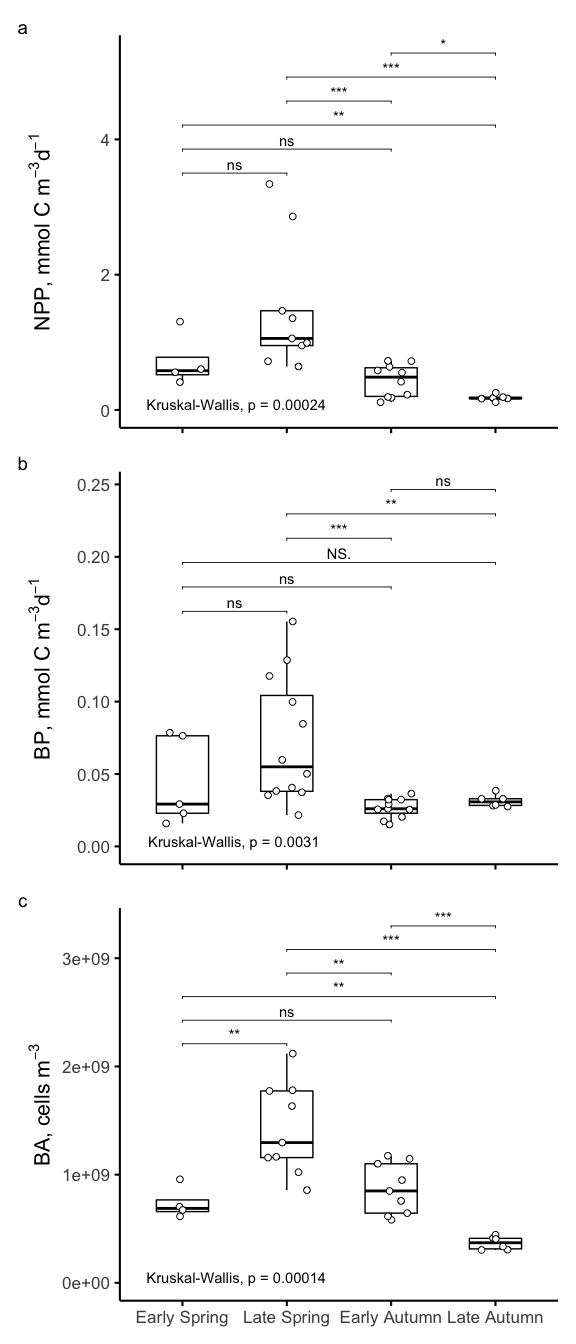
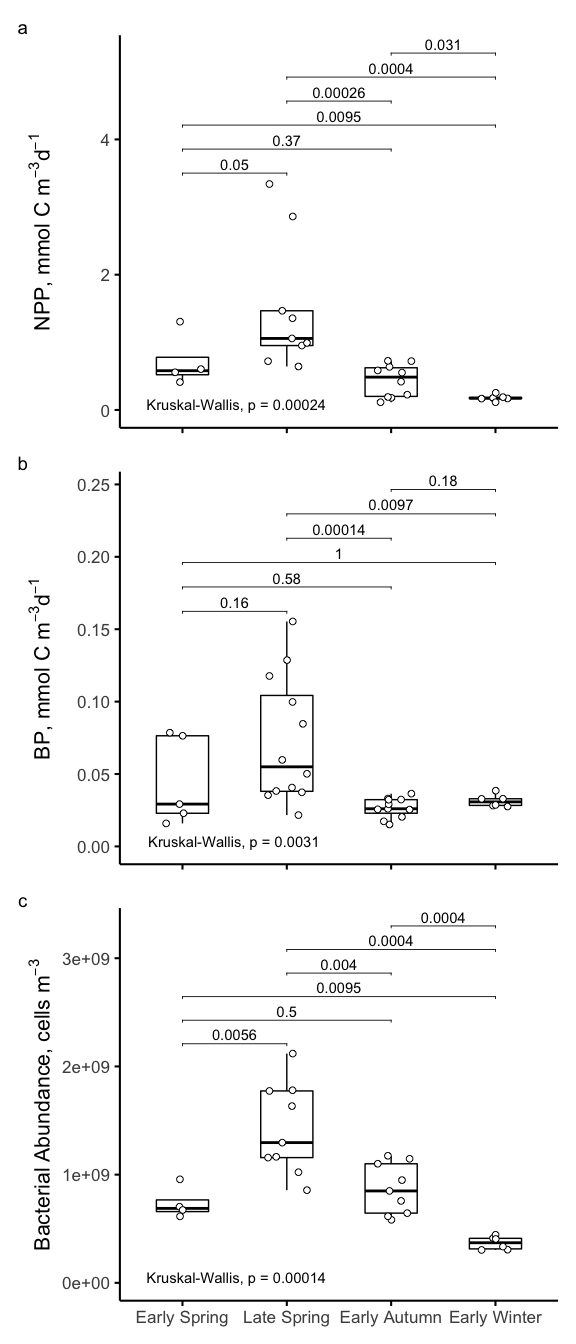
change nomenclature for figs and fix redistribution values to reflect methods of baetge et al 2020

diff --git a/rmd/BCD_DOC-Bioavailability.md b/rmd/BCD_DOC-Bioavailability.md
@@ -25,7 +25,8 @@ library(blandr)
 ``` r
 export <- readRDS("~/GITHUB/naames_bioav_ms/Input/master/processed_export_for_bioavMS.6.7.20.rds") %>% 
   select(Season, Cruise, degree_bin, Station, int_delta_DOC_100, NCP_mol_100, doc_ncp_100) %>% 
-  distinct()
+  distinct() %>% 
+  mutate(Season = ifelse(Season == "Late Autumn", "Early Winter", Season))
 
 export_bioav <- readRDS("~/GITHUB/naames_bioav_ms/Output/processed_DOC_bioavailability.rds") 
 
@@ -40,7 +41,7 @@ doc_og <- read_rds("~/GITHUB/naames_bioav_ms/Input/master/DOC_Input") %>%
   summarise_at(vars(doc), list(mean = mean, sd = sd)) %>%
   ungroup() %>% 
   mutate(increase = 56.2 - 53.4,
-         per_increase = increase / 53.4 * 100)
+         per_increase = increase / 53.4 * 100) 
 ```
 
     ## Joining, by = c("Season", "Cruise", "Station", "Bottle")
@@ -67,7 +68,8 @@ bge <- read_rds("~/GITHUB/naames_bioav_ms/Output/processed_bge.rds") %>%
   select(Season:stationary.harvest, remin.end, Hours:sd_station_cells, norm_cells, sd_norm_cells, everything()) %>% 
   left_join(., export_bioav %>% select(Season, Cruise, Station, degree_bin) %>% distinct()) %>% 
   mutate(degree_bin = ifelse(is.na(degree_bin), 39, degree_bin)) %>% 
-  select(Season:Station, degree_bin, everything())
+  select(Season:Station, degree_bin, everything()) %>% 
+  mutate(Season = ifelse(Season == "Late Autumn", "Early Winter", Season))
 ```
 
     ## Joining, by = c("Season", "Cruise", "Station")
@@ -78,7 +80,9 @@ bge_summary <- read_rds("~/GITHUB/naames_bioav_ms/Output/bge_summary.rds") %>%
   left_join(., read_rds("~/GITHUB/naames_bioav_ms/Output/bge_station_means.rds") %>% select(Season, Cruise, Station, bge_mean) %>% rename(station_bge = bge_mean)) %>% 
   left_join(., export_bioav %>% select(Season, Cruise, Station, degree_bin) %>% distinct()) %>% 
   mutate(degree_bin = ifelse(is.na(degree_bin), 39, degree_bin)) %>% 
-  select(Season:Station, degree_bin, everything())
+  select(Season:Station, degree_bin, everything()) %>% 
+  mutate(Season = ifelse(Season == "Late Autumn", "Early Winter", Season)) %>% 
+  mutate(ccf = (del.poc * (12 * 10^9)/del.cells))
 ```
 
     ## Joining, by = c("Season", "Cruise")
@@ -87,11 +91,13 @@ bge_summary <- read_rds("~/GITHUB/naames_bioav_ms/Output/bge_summary.rds") %>%
     ## Joining, by = c("Season", "Cruise", "Station")
 
 ``` r
-bcd <- read_rds("~/GITHUB/naames_bioav_ms/Output/processed_BCD.rds") 
+bcd <- read_rds("~/GITHUB/naames_bioav_ms/Output/processed_BCD.rds") %>% 
+  mutate(Season = ifelse(Season == "Late Autumn", "Early Winter", Season))
 
 lat44 <- read_rds("~/GITHUB/naames_bioav_ms/Output/processed_lat44_remins.rds") %>% 
   drop_na(sd_combined_doc) %>% 
-  mutate(station_line = ifelse(Cruise == "AT39" & Station == 4, "ab", "a"))
+  mutate(station_line = ifelse(Cruise == "AT39" & Station == 4, "ab", "a")) %>% 
+  mutate(Season = ifelse(Season == "Late Autumn", "Early Winter", Season))
 ```
 
 Units for imported data frames are currently:
@@ -122,7 +128,7 @@ We’ll also do a lmodel2 regression.
 
 ``` r
 vessel_comparisons <- bge %>% 
-  select(Season, Cruise, Station, Bottle, Hours, Days,  cells, p_cells, ptoc,  toc, doc, pdoc, doc_star) 
+  select(Season, Cruise, Station, degree_bin, Bottle, Hours, Days,  cells, p_cells, ptoc,  toc, doc, pdoc, doc_star) 
 
 doc_doc.star <- vessel_comparisons %>% 
   drop_na(doc) %>% 
@@ -323,16 +329,16 @@ unique(doc_og$per_increase)
 ba_curves <- bge %>% 
   filter(Treatment == "Control") %>% 
   drop_na(norm_cells) %>% 
-  select(Season, Station, Days, norm_cells, sd_norm_cells) %>% 
+  select(Season, Station, degree_bin, Days, norm_cells, sd_norm_cells) %>% 
   distinct() %>% 
   # filter(!Cruise == "AT34" | !Station == 3) %>% #did not calc bge or cell resp due to data coming from post stationary
   ggplot(aes(x = Days, y = norm_cells, group = interaction(Season, Station))) +
-  geom_errorbar(aes(ymin = norm_cells - sd_norm_cells, ymax = norm_cells + sd_norm_cells, color = Station), width = 0.3, alpha = 0.5) +
-  geom_line(aes(color = Station), alpha = 0.7) +
-  geom_point(aes(fill = Station), size = 3, shape = 21, alpha = 0.7) +
-  scale_color_brewer(palette = "Dark2") +
-  scale_fill_brewer(palette = "Dark2") +
- labs(x = expression(""), y = expression(paste("∆ Cells, L"^-1)), fill = "Station") +
+  geom_errorbar(aes(ymin = norm_cells - sd_norm_cells, ymax = norm_cells + sd_norm_cells, color = factor(degree_bin)), width = 0.3, alpha = 0.5) +
+  geom_line(aes(color = factor(degree_bin)), alpha = 0.7) +
+  geom_point(aes(fill = factor(degree_bin)), size = 3, shape = 21, alpha = 0.7) +
+  scale_color_brewer(palette = "RdBu") +
+  scale_fill_brewer(palette = "RdBu") +
+ labs(x = expression(""), y = expression(paste("Bacterial Abundance, Cells L"^-1)), fill = "Latitude, ˚N") +
   theme_classic2(base_size = 16) +
   guides(color = F, linetype = F) + facet_grid(~factor(Season, levels = levels))
 ```
@@ -343,16 +349,38 @@ ba_curves <- bge %>%
 doc_curves <-  bge %>% 
   filter(Treatment == "Control") %>% 
   drop_na(sd_combined_doc) %>% 
-  select(Season, Station, Days, norm_doc, sd_norm_doc) %>% 
+  select(Season, Station, degree_bin, Days, norm_doc, sd_norm_doc) %>% 
   distinct() %>% 
-  # filter(!Cruise == "AT34" | !Station == 3) %>% #did not calc bge or cell resp due to data coming from post stationary
+  # filter(!Cruise == "AT34" | !S,tation == 3) %>% #did not calc bge or cell resp due to data coming from post stationary
   ggplot(aes(x = Days, y = norm_doc, group = interaction(Season, Station))) +
-  geom_errorbar(aes(ymin = norm_doc - sd_norm_doc, ymax = norm_doc + sd_norm_doc, color = Station), width = 1, alpha = 0.5) +
-  geom_line(aes(color = Station), alpha = 0.7) +
-  geom_point(aes(fill = Station), size = 3, shape = 21, alpha = 0.7) +
-  scale_color_brewer(palette = "Dark2") +
-  scale_fill_brewer(palette = "Dark2") +
- labs(x = expression("Days"), y = expression(paste("∆ DOC, µmol C L"^-1)), fill = "") +
+  geom_errorbar(aes(ymin = norm_doc - sd_norm_doc, ymax = norm_doc + sd_norm_doc, color = factor(degree_bin)), width = 1, alpha = 0.5) +
+  geom_line(aes(color = factor(degree_bin)), alpha = 0.7) +
+  geom_point(aes(fill = factor(degree_bin)), size = 3, shape = 21, alpha = 0.7) +
+  scale_color_brewer(palette = "RdBu") +
+  scale_fill_brewer(palette = "RdBu") +
+ # labs(x = expression("Days"), y = expression(paste("DOC"^"(*)",", µmol C L"^-1)), fill = "") +
+  labs(x = expression("Days"), y = expression(paste("DOC(*), µmol C L"^-1)), fill = "") +
+  theme_classic2(base_size = 16) +
+  theme(strip.background.x = element_blank(),
+        strip.text.x = element_blank()) +
+  guides(color = F, fill = F) +
+  facet_grid(~factor(Season, levels = levels))
+```
+
+``` r
+doc_curves2 <-  bge %>% 
+  filter(Treatment == "Control", Days <= 20) %>% 
+  drop_na(sd_combined_doc) %>% 
+  select(Season, Station, degree_bin, Days, norm_doc, sd_norm_doc) %>% 
+  distinct() %>% 
+  # filter(!Cruise == "AT34" | !S,tation == 3) %>% #did not calc bge or cell resp due to data coming from post stationary
+  ggplot(aes(x = Days, y = norm_doc, group = interaction(Season, Station))) +
+  geom_errorbar(aes(ymin = norm_doc - sd_norm_doc, ymax = norm_doc + sd_norm_doc, color = factor(degree_bin)), width = 1, alpha = 0.5) +
+  geom_line(aes(color = factor(degree_bin)), alpha = 0.7) +
+  geom_point(aes(fill = factor(degree_bin)), size = 3, shape = 21, alpha = 0.7) +
+  scale_color_brewer(palette = "RdBu") +
+  scale_fill_brewer(palette = "RdBu") +
+ labs(x = expression("Days"), y = expression(paste("DOC, µmol C L"^-1)), fill = "") +
   theme_classic2(base_size = 16) +
   theme(strip.background.x = element_blank(),
         strip.text.x = element_blank()) +
@@ -368,7 +396,17 @@ ba_curves / doc_curves +
 ```
 
 ![](BCD_DOC-Bioavailability_files/figure-gfm/unnamed-chunk-9-1.png)<!-- -->
-\# Delta Stats
+
+``` r
+ba_curves / doc_curves2 + 
+   plot_annotation(tag_levels = "a") &
+  plot_layout(guides = "collect") +
+  theme(plot.tag = element_text(size = 14))
+```
+
+![](BCD_DOC-Bioavailability_files/figure-gfm/unnamed-chunk-10-1.png)<!-- -->
+
+# Delta Stats
 
 stats for ∆POC and ∆DOC
 
@@ -478,6 +516,21 @@ longterm_delta_stats %>%
     ##   <dbl> <dbl> <dbl>
     ## 1  4.54  1.61 0.355
 
+\#CCFs
+
+``` r
+bge_summary %>% 
+  group_by(Cruise) %>% 
+  summarize_at(vars(ccf), list(mean = mean, sd = sd), na.rm = T)
+```
+
+    ## # A tibble: 3 x 3
+    ##   Cruise  mean    sd
+    ##   <chr>  <dbl> <dbl>
+    ## 1 AT34    29.4 63.1 
+    ## 2 AT38    18.8 17.4 
+    ## 3 AT39    20.5  8.25
+
 # BGE
 
 ``` r
@@ -485,16 +538,17 @@ bge_box <- bge_summary %>%
   drop_na(bge) %>% 
   ggplot(aes(x = factor(Season, levels = levels), y = bge)) +
   geom_boxplot(width = 0.3) +
-  geom_point(aes(fill = Station), shape = 21, size = 3, alpha = 0.7) +
+  geom_point(aes(fill = factor(degree_bin)), shape = 21, size = 3, alpha = 0.7) +
   theme_classic2(base_size = 16) +
-  scale_fill_brewer(palette = "Dark2") +
-  labs(x = "", y = "BGE") + 
+  # scale_fill_brewer(palette = "Dark2") +
+  scale_fill_manual(values = matlab.colors) +
+  labs(x = "", y = "BGE", fill = "Latitude, ˚N") + 
   stat_compare_means()  
   
   bge_box
 ```
 
-![](BCD_DOC-Bioavailability_files/figure-gfm/unnamed-chunk-19-1.png)<!-- -->
+![](BCD_DOC-Bioavailability_files/figure-gfm/unnamed-chunk-21-1.png)<!-- -->
 
 # Experiments at 44˚N
 
@@ -514,7 +568,7 @@ bge.table.data2 <- bge_summary %>%
   arrange(factor(Season, levels = levels))
 
 bioav.table.data <- export_bioav %>% 
-  select(Cruise:Station, degree_bin, end.remin, stationary.harvest, initial.doc:longterm.ddoc) %>% 
+  select(Cruise:Station, degree_bin, end.remin, stationary.harvest, redis_DOC_vol, initial.doc:longterm.ddoc) %>% 
   mutate(shortterm.del.doc = ifelse(shortterm.del.doc < 2, NA, shortterm.del.doc),
          shortterm.bioav.doc = ifelse(is.na(shortterm.del.doc), NA, shortterm.bioav.doc),
          shortterm.ddoc = ifelse(is.na(shortterm.del.doc), NA, shortterm.ddoc),
@@ -530,13 +584,13 @@ bioav.table.data <- export_bioav %>%
 
 station_bioav <- bioav.table.data %>% 
  group_by(Cruise, Season, Station, degree_bin) %>% 
-  summarize_at(vars(initial.doc:longterm.ddoc), list(mean = mean, sd = sd), na.rm = T)  %>% 
+  summarize_at(vars(redis_DOC_vol:longterm.ddoc), list(mean = mean, sd = sd), na.rm = T)  %>% 
   arrange(factor(Season, levels = levels), degree_bin) %>% 
   ungroup()
 
 cruise_bioav <- bioav.table.data %>% 
  group_by(Cruise, Season) %>% 
-  summarize_at(vars(initial.doc:longterm.ddoc), list(mean = mean, sd = sd), na.rm = T)  %>% 
+  summarize_at(vars(redis_DOC_vol:longterm.ddoc), list(mean = mean, sd = sd), na.rm = T)  %>% 
   arrange(factor(Season, levels = levels)) %>% 
   ungroup() 
 
@@ -597,7 +651,7 @@ bcd.npp.summary <- bcd.summary %>%
 ``` r
 bcd.npp_summary_table <- left_join(bcd.summary, bcd.cruise.summary) %>% 
   mutate_at(vars(contains(c("int.NPP", "int.bp", "int.bcd"))), round, 3) %>% 
-  mutate_at(vars(contains(c("bp.npp", "bcd.npp"))), round, 2)
+  mutate_at(vars(contains(c("bp.npp", "bcd.npp"))), round, 2) 
 ```
 
     ## Joining, by = "Season"
@@ -624,11 +678,13 @@ field.doc_table
     ## # Groups:   Cruise [3]
     ##   Cruise Season        mean    sd
     ##   <chr>  <chr>        <dbl> <dbl>
-    ## 1 AT34   Late Spring   6.51 3.42 
-    ## 2 AT38   Early Autumn 13.2  3.29 
-    ## 3 AT39   Early Spring  3.58 0.760
+    ## 1 AT34   Late Spring   6.13  2.83
+    ## 2 AT38   Early Autumn 13.1   3.34
+    ## 3 AT39   Early Spring  2.8   1.37
 
 ![](BCD_DOC-Bioavailability_files/figure-gfm/BCD%20and%20NPP%20bar%20plots-1.png)<!-- -->
+
+![](BCD_DOC-Bioavailability_files/figure-gfm/BCD%20and%20NPP%20bar%20plots2-1.png)<!-- -->
 
 # Regressions: Property-Property
 
@@ -695,3 +751,30 @@ summary(model)
 ## Plots
 
 ![](BCD_DOC-Bioavailability_files/figure-gfm/BCD%20and%20NPP%20regression%20plots-1.png)<!-- -->
+
+``` r
+compare_means(bcd.npp_global_mean ~ Cruise, bcd.summary, method = "kruskal.test")
+```
+
+    ## Adding missing grouping variables: `Season`, `Station`
+
+    ## # A tibble: 1 x 6
+    ##   .y.                       p  p.adj p.format p.signif method        
+    ##   <chr>                 <dbl>  <dbl> <chr>    <chr>    <chr>         
+    ## 1 bcd.npp_global_mean 0.00411 0.0041 0.0041   **       Kruskal-Wallis
+
+``` r
+compare_means(bcd.npp_global_mean ~ Season, bcd.summary)
+```
+
+    ## Adding missing grouping variables: `Cruise`, `Station`
+
+    ## # A tibble: 6 x 8
+    ##   .y.             group1      group2           p p.adj p.format p.signif method 
+    ##   <chr>           <chr>       <chr>        <dbl> <dbl> <chr>    <chr>    <chr>  
+    ## 1 bcd.npp_global… Early Spri… Late Spri… 0.762   0.76  0.7619   ns       Wilcox…
+    ## 2 bcd.npp_global… Early Spri… Early Aut… 0.0667  0.2   0.0667   ns       Wilcox…
+    ## 3 bcd.npp_global… Early Spri… Early Win… 0.00952 0.048 0.0095   **       Wilcox…
+    ## 4 bcd.npp_global… Late Spring Early Aut… 0.132   0.26  0.1320   ns       Wilcox…
+    ## 5 bcd.npp_global… Late Spring Early Win… 0.00216 0.013 0.0022   **       Wilcox…
+    ## 6 bcd.npp_global… Early Autu… Early Win… 0.0411  0.16  0.0411   *        Wilcox…

diff --git a/rmd/Merge_Field_Experimental_Data.md b/rmd/Merge_Field_Experimental_Data.md
@@ -165,7 +165,8 @@ bcd <- interpolated.df %>%
   group_by(Spring_Autumn) %>% 
   fill(c(contains("bge")), .direction = "downup") %>% 
   ungroup() %>% 
-  mutate(bcd = round(interp_bp/cruise_bge))  #units are  µmol C / m3 / d, bp in nmol C / L / d is equivalent to  µmol C / m3 / d 
+  mutate(bcd = round(interp_bp/cruise_bge),
+         bcd_global = round(interp_bp/0.26))  #units are  µmol C / m3 / d, bp in nmol C / L / d is equivalent to  µmol C / m3 / d 
 ```
 
 ``` r
@@ -173,6 +174,7 @@ int_bcd <- bcd %>%
   group_by(CampCN) %>% 
   filter(Depth <= Ez) %>% 
   mutate(int.bcd = integrateTrapezoid(Depth, bcd, type = "A"),
+         int.bcd_global = integrateTrapezoid(Depth, bcd_global, type = "A"),
          int.bp = integrateTrapezoid(Depth, interp_bp, type = "A"),
          int.ba = integrateTrapezoid(Depth, interp_ba, type = "A")) %>% 
   mutate_at(vars(contains("int.bcd")), round) %>% 
@@ -180,7 +182,8 @@ int_bcd <- bcd %>%
   mutate_at(vars(contains("int.")), funs(./Ez)) %>% 
   mutate(int.NPP = Ez_NPP/Ez,
          bp.npp = int.bp/int.NPP * 100,
-         bcd.npp = int.bcd/int.NPP * 100) %>% 
+         bcd.npp = int.bcd/int.NPP * 100,
+         bcd.npp_global = int.bcd_global/int.NPP * 100) %>% 
   distinct() %>% 
   ungroup()
 ```
@@ -229,6 +232,11 @@ export <- readRDS("~/GITHUB/naames_bioav_ms/Input/master/processed_export_for_bi
   select(Cruise, Season, degree_bin,  Subregion, Station, ave_Ez, sd_Ez, Target_Z,  redis_DOC_vol, int_delta_DOC_ez, int_delta_DOC_100, NCP_mol_ez, NCP_mol_100) %>% 
   distinct() %>% 
   mutate_at(vars(redis_DOC_vol), round, 1) %>% 
+  mutate(redis_DOC_vol = ifelse(degree_bin == 44, 55.9, redis_DOC_vol),
+         redis_DOC_vol = ifelse(degree_bin == 42, 55.4, redis_DOC_vol),
+         redis_DOC_vol = ifelse(degree_bin == 39, 55.5, redis_DOC_vol),
+         redis_DOC_vol = ifelse(degree_bin == 51, 52, redis_DOC_vol),
+         ) %>%  #following Baetge et al., 2020 use the redistribution of early autumn
   mutate_at(vars(int_delta_DOC_ez, NCP_mol_ez, int_delta_DOC_100, NCP_mol_100), round, 2) %>%
   mutate_at(vars(Station), as.character) %>% 
   drop_na(int_delta_DOC_100) %>% 
@@ -266,7 +274,7 @@ export_bioav <- export %>%
   select(Cruise, Station, Bottle, stationary.harvest, end.remin, initial.doc, longterm.del.doc,
          shortterm.del.doc) %>% 
   distinct()) %>% 
-  mutate(redis_DOC_vol = ifelse(Station %in% c("S2RD", "S2RF"), 55.0, redis_DOC_vol),
+  mutate(redis_DOC_vol = ifelse(Station %in% c("S2RD", "S2RF"), 55.5, redis_DOC_vol),
          degree_bin = ifelse(is.na(degree_bin), 39, degree_bin),
          Season = ifelse(is.na(Season), "Early Spring", Season)) %>% 
   filter(!Cruise == "AT32") %>% 
